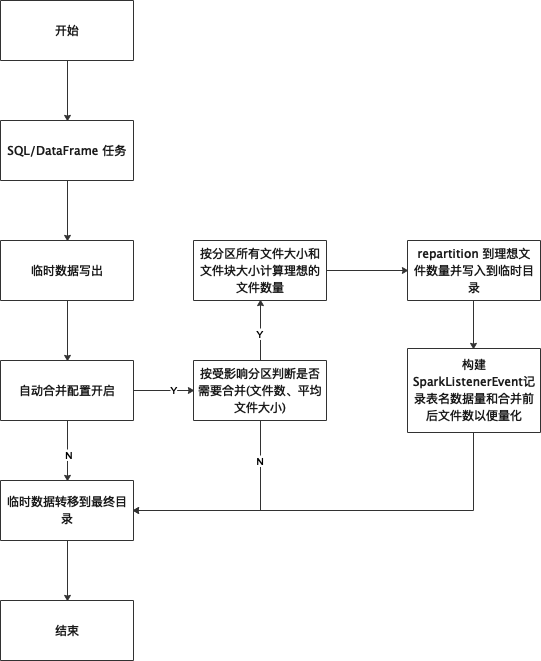
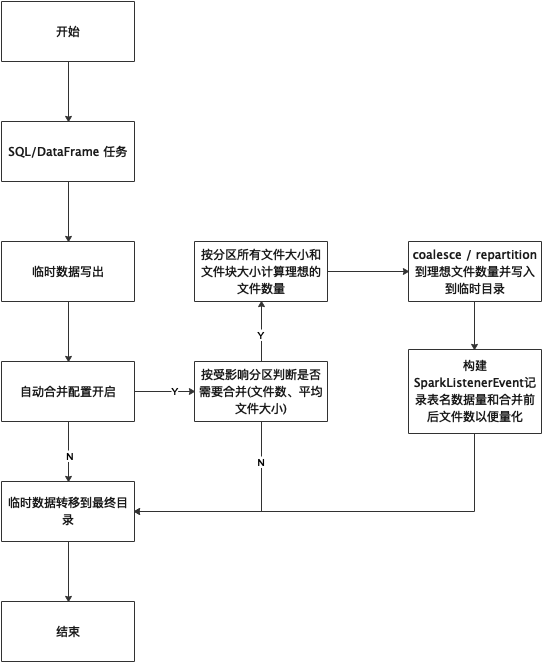
Site updated: 2020-08-03 11:44:24

diff --git a/2020-07-03-Spark 自动合并小文件/index.html b/2020-07-03-Spark 自动合并小文件/index.html
@@ -54,7 +54,7 @@
 <meta property="og:description" content="Spark SQL&#x2F;DataFrame application 在高并发度或使用动态分区时产生大量小文件的平台化治理实践。">
 <meta property="og:image" content="https:&#x2F;&#x2F;jiulongzhu.github.io&#x2F;img&#x2F;pictures&#x2F;spark&#x2F;auto_merge_small_file.png">
 <meta property="article:published_time" content="2020-07-02T16:00:00.000Z">
-<meta property="article:modified_time" content="2020-07-24T02:37:36.740Z">
+<meta property="article:modified_time" content="2020-08-03T03:34:35.699Z">
 <meta property="article:author" content="Acadia">
 <meta property="article:tag" content="Spark 2.3.0">
 <meta property="article:tag" content="方案">
@@ -284,7 +284,7 @@
 </tr>
 <tr>
 <td align="left">spark.hive.automerge.shuffle.enabled</td>
-<td align="left">true</td>
+<td align="left">false</td>
 <td align="left">重分区时是否开启 shuffle。true 时为 repartition，false 时为coalesce</td>
 </tr>
 </tbody></table>
@@ -293,7 +293,7 @@
 </blockquote>
 <ol>
 <li>日志信息<br>INFO MergeHiveSmallFileUtil: merge table: user_profile.dwd_user_profile_di ,partition:second=visit/third=visit_7d finished, cost 164 ms.before {total length in bytes: 233 ,file number: 3} ,after {file number: 1}    </li>
-<li>Spark History EventLog<br>{“Event”:”org.apache.spark.sql.hive.execution.AutoMergeSmallFileEvent”,”table”:”user_profile.dwd_user_profile_di”,”part”:”second=visit/third=visit_7d”,”totalLenInByte”:233,”numBefore”:3,”numAfter”:1,”diff”:2}  </li>
+<li>Spark History EventLog<br>{“Event”:”org.apache.spark.sql.hive.execution.AutoMergeSmallFileEvent”,”table”:”user_profile.dwd_user_profile_di”,”part”:”second=visit/third=visit_7d”,”totalLenInByte”:233,”numBefore”:3,”numAfter”:1,”diff”:2,”costInMillSec”:164}    </li>
 </ol>
 <h2 id="todo"><a href="#todo" class="headerlink" title="todo"></a>todo</h2><ol>
 <li>临时文件以 Hive TableDesc 定义的 output format(e.g. org.apache.hadoop.hive.ql.io.orc.OrcOutputFormat) 形式写出，但是无法用 TableDesc定义的 input format来读取。因为 Hive TableDesc 定义的 input/output format 不是一个可用的 Spark SQL DataSource。使用 sparkSession.read.option(“inputFormat”,TableDesc.getInputFormatClassName).option(‘outputformat’,TableDesc.getOutputFormatClassName)也无法解决此问题，因为 spark 默认的 DataSource 为 parquet。没有在源代码中找到更优雅的方式来映射 Hive output format 到 Spark SQL DataSource，求助于 spark dev list 也未收到回复，目前采用的是死板的枚举映射判断 Hive outputformat 的后缀(e.g. orcoutputformat-&gt;orc)。  </li>

diff --git a/css/main.css b/css/main.css
@@ -1160,7 +1160,7 @@ pre .javascript .function {
 }
 .links-of-author a::before,
 .links-of-author span.exturl::before {
-  background: #ffbfc8;
+  background: #edff5d;
   border-radius: 50%;
   content: ' ';
   display: inline-block;
